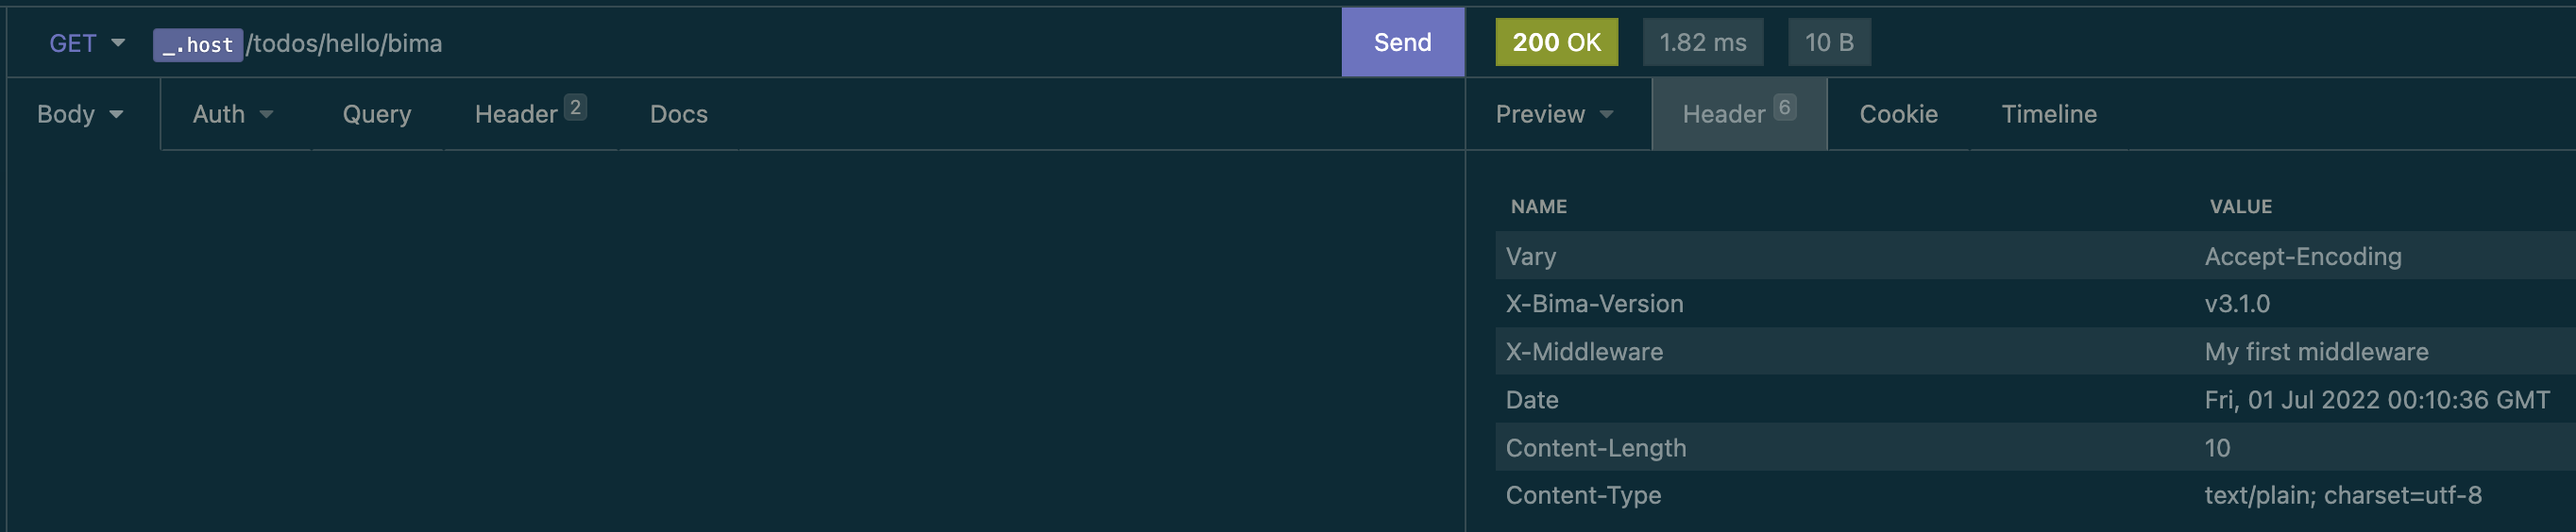
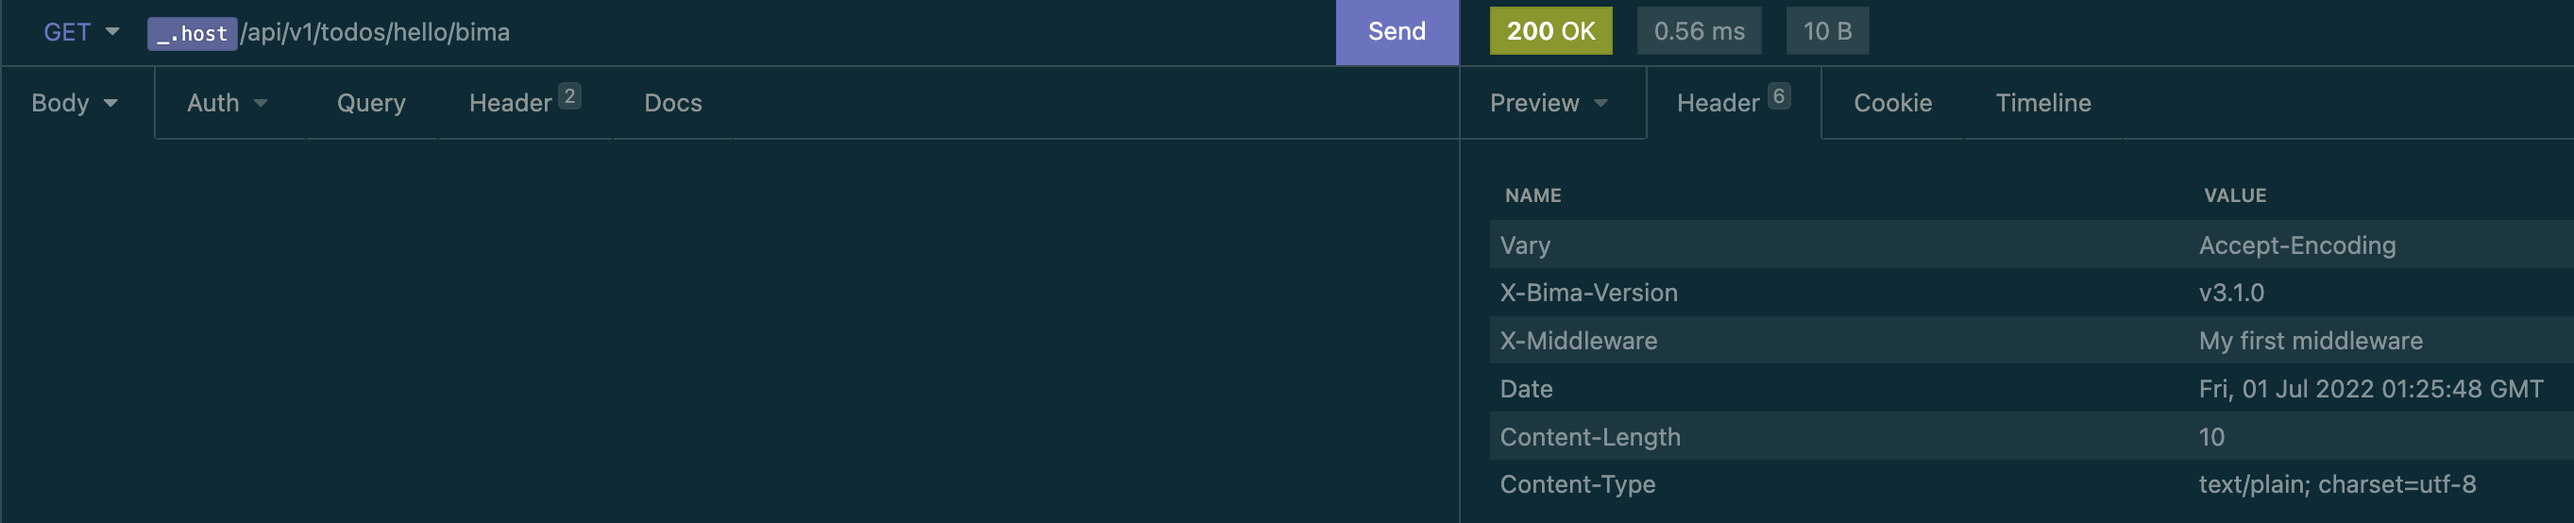
update readme

diff --git a/todos/route.go b/todos/route.go
@@ -11,7 +11,7 @@ type HelloWorld struct {
 }
 
 func (a *HelloWorld) Path() string {
-	return "/todos/hello/{name}"
+	return "/api/v1/todos/hello/{name}"
 }
 
 func (a *HelloWorld) Method() string {

diff --git a/README.md b/README.md
@@ -176,7 +176,7 @@ Middleware interface {
 
 ### Add new route
 
-For example, you want to add new page `/todos/hello/{name}` that response `Hello <name>` string, first add `route.go` to your `todos` folder
+For example, you want to add new page `/api/v1/todos/hello/{name}` that response `Hello <name>` string, first add `route.go` to your `todos` folder
 
 ```go
 package todos
@@ -193,7 +193,7 @@ type HelloWorld struct {
 }
 
 func (a *HelloWorld) Path() string {
-	return "/todos/hello/{name}"
+	return "/api/v1/todos/hello/{name}"
 }
 
 func (a *HelloWorld) Method() string {
@@ -231,7 +231,7 @@ routes:
 
 ```
 
-Rerun using `task run` and open `/todos/hello` and then the result like below
+Rerun using `task run` and open `/api/v1/todos/hello/bima` and then the result like below
 
 ![Response header](assets/add-route.png)
 
@@ -247,7 +247,7 @@ func (a *HelloWorld) Middlewares() []middlewares.Middleware {
 }
 ```
 
-Rerun again and open `/hello/world/bima` and your middleware is there
+Rerun again and open `/api/v1/todos/hello/bima` and your middleware is there
 
 ![Response header](assets/middleware-route.png)
 
